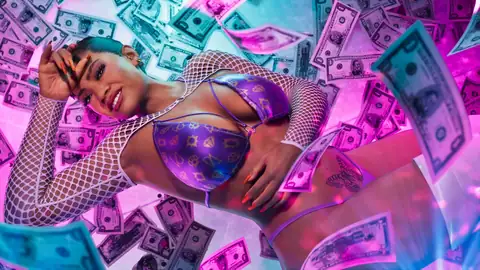
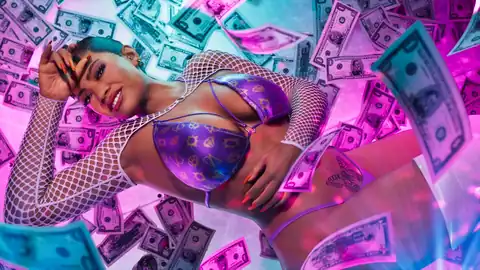
Perf: eager LCP card/backdrop, density-capped mobile sizes, lighter -sm thumbnails

diff --git a/src/components/cards/MediaCard.tsx b/src/components/cards/MediaCard.tsx
@@ -19,20 +19,23 @@ export interface MediaCardItem {
  */
 export function MediaCard({
   item,
-  sizes = "(min-width: 1024px) 360px, (min-width: 640px) 50vw, 100vw",
+  sizes = "(min-width: 1024px) 360px, (min-width: 640px) 50vw, 60vw",
   feature = false,
+  eager = false,
   headingLevel = 3,
 }: {
   item: MediaCardItem;
   sizes?: string;
   feature?: boolean;
+  /** Above-the-fold LCP card only: load eagerly with high fetch priority. */
+  eager?: boolean;
   headingLevel?: 2 | 3 | 4;
 }) {
   const H = `h${headingLevel}` as "h2" | "h3" | "h4";
   return (
     <Link href={item.href} className="mc-card group" data-feature={feature || undefined}>
       <div className="mc-card__media">
-        <ShotImage id={item.shot ?? shotForHref(item.href)} sizes={sizes} />
+        <ShotImage id={item.shot ?? shotForHref(item.href)} sizes={sizes} eager={eager} />
       </div>
       <div className="mc-card__body">
         {item.kicker ? <span className="mc-card__kicker">{item.kicker}</span> : null}
@@ -80,10 +83,10 @@ export function MediaGrid({
   if (!items.length) return null;
   const sizes =
     cols === 4
-      ? "(min-width: 1024px) 270px, (min-width: 640px) 50vw, 100vw"
+      ? "(min-width: 1024px) 270px, (min-width: 640px) 50vw, 60vw"
       : cols === 3
-        ? "(min-width: 1024px) 360px, (min-width: 640px) 50vw, 100vw"
-        : "(min-width: 640px) 50vw, 100vw";
+        ? "(min-width: 1024px) 360px, (min-width: 640px) 50vw, 60vw"
+        : "(min-width: 640px) 50vw, 60vw";
   return (
     <div className={className}>
       <ul className="mc-grid" data-cols={cols}>

diff --git a/src/app/guides/page.tsx b/src/app/guides/page.tsx
@@ -59,7 +59,7 @@ export default function Guides() {
 
         {/* ---------- Hero ---------- */}
         <section className="relative isolate pb-10x pt-6x md:pt-10x" aria-labelledby="guides-title">
-          <PageBackdrop id="boat" dim="strong" fadeTop />
+          <PageBackdrop id="boat" dim="strong" fadeTop priority />
           <p className="vc-kicker mb-4x">Guides</p>
           <h1 id="guides-title" className="vc-heading text-[clamp(3.5rem,11vw,7.5rem)]">
             How to play Leonida
@@ -98,7 +98,7 @@ export default function Guides() {
               <MediaCard
                 feature
                 headingLevel={3}
-                sizes="(min-width: 1152px) 660px, (min-width: 768px) 58vw, 100vw"
+                sizes="(min-width: 1152px) 660px, (min-width: 768px) 58vw, 60vw"
                 item={{
                   href: feature.href,
                   title: feature.title,

diff --git a/src/components/media/ShotImage.tsx b/src/components/media/ShotImage.tsx
@@ -31,6 +31,7 @@ export function ShotImage({
       height={Math.round((s.widths[1] * 9) / 16)}
       alt={describe ? `${s.alt}. Official GTA 6 screenshot, © Rockstar Games` : ""}
       loading={eager ? "eager" : "lazy"}
+      fetchPriority={eager ? "high" : undefined}
       decoding="async"
       className={`h-full w-full object-cover ${className}`}
       style={s.pos ? { objectPosition: s.pos } : undefined}

diff --git a/src/app/database/page.tsx b/src/app/database/page.tsx
@@ -37,6 +37,7 @@ export default function DatabaseIndex() {
             <MediaCard
               item={{ href: c.href, title: c.title, kicker: c.kicker, blurb: c.body }}
               feature={i === 0}
+              eager={i === 0}
               headingLevel={2}
               sizes={i === 0 ? "(min-width: 1024px) 560px, 100vw" : "(min-width: 1024px) 270px, (min-width: 640px) 50vw, 100vw"}
             />
